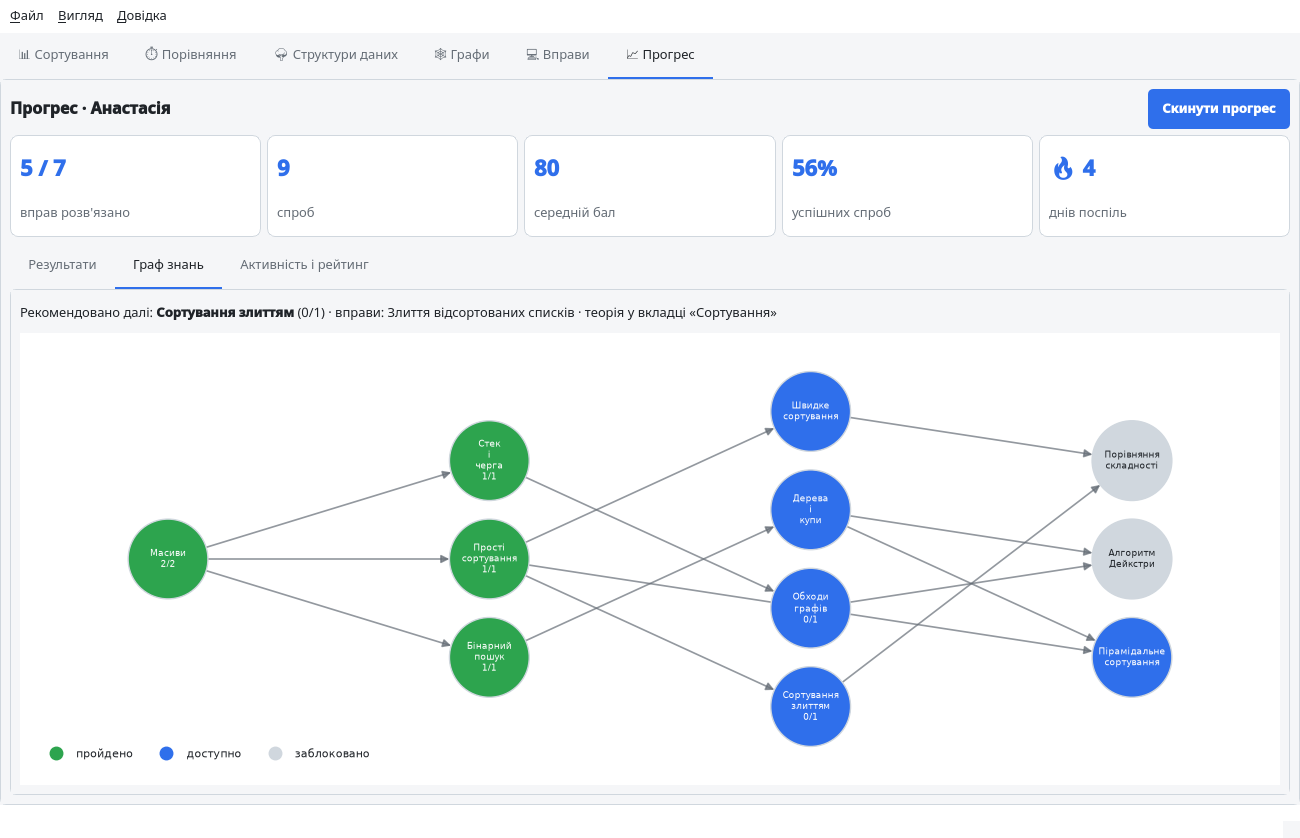
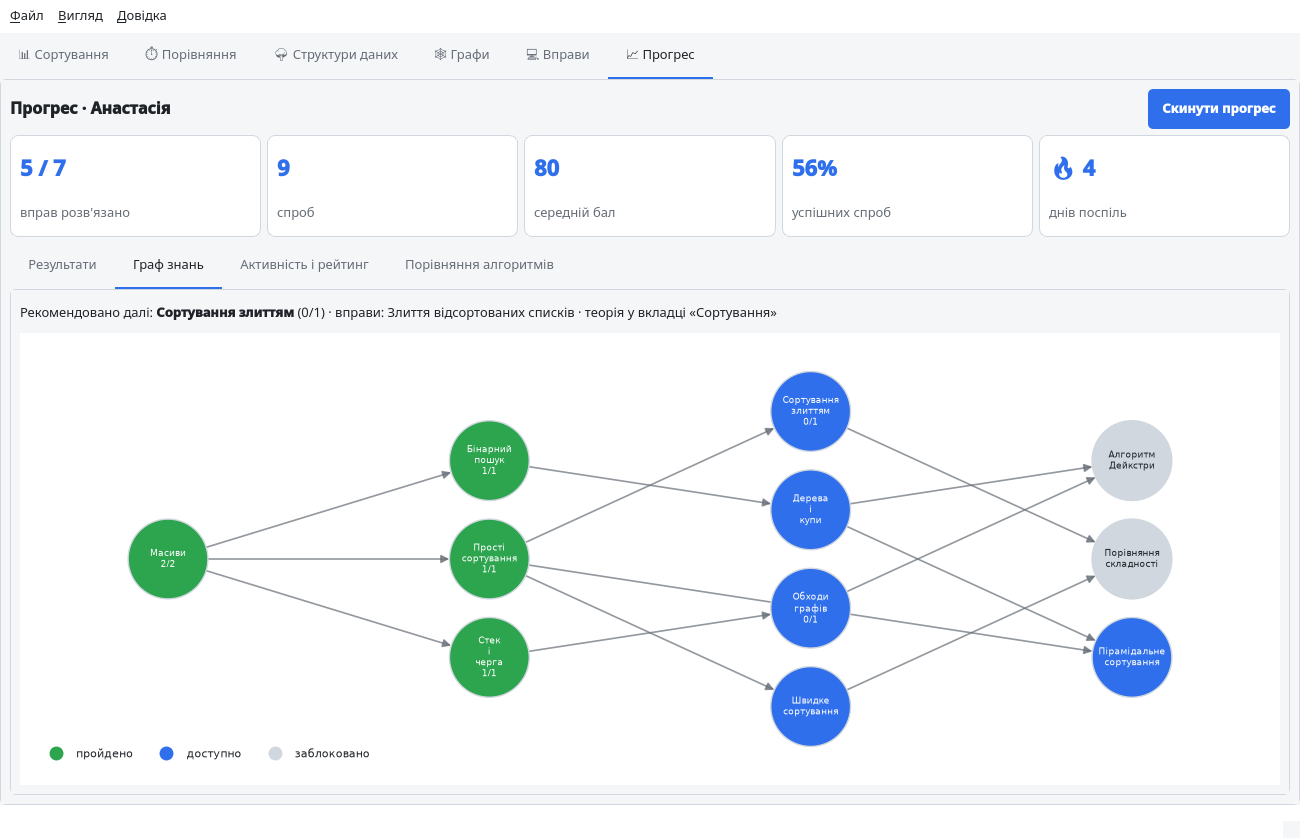
docs: describe benchmark history in README, update screenshots

diff --git a/README.md b/README.md
@@ -33,7 +33,7 @@ the last tab and the current student are remembered between sessions.
 | 🌳 **Data structures** | Binary search tree (search path highlighting, traversals, height), min/max heap (tree + array view), hash table (buckets, collisions, resizing, load factor), stack, queue, singly linked list. Insert / delete / find / random fill. |
 | 🕸 **Graphs** | Build a graph with the mouse (click to add a vertex, click two vertices to connect them, drag to move) or with the form; weighted and directed graphs. Generate random graphs (Erdős–Rényi, tree, grid, complete) and arrange them with `networkx` layouts (spring, circular, shell, Kamada–Kawai, spectral). Animated **BFS**, **DFS** and **Dijkstra** with a levels / order / distances table and shortest path highlighting; graph metrics (connectivity, components, diameter, density). |
 | 💻 **Exercises** | 7 tasks from easy to hard with hints. Code editor with Python syntax highlighting and auto-indent. Solutions run in a separate process with a time limit, so an infinite loop never freezes the app. Results table with expected / actual / time for every test. |
-| 📈 **Progress** | Statistics cards (solved exercises, attempts, average score, success rate, day streak). **Results:** score charts and achievements. **Knowledge graph:** course topics with prerequisites, coloured as mastered / available / locked, and a recommendation of what to study next. **Activity and leaderboard:** attempts over the last 14 days and a ranking of all students. |
+| 📈 **Progress** | Statistics cards (solved exercises, attempts, average score, success rate, day streak). **Results:** score charts and achievements. **Knowledge graph:** course topics with prerequisites, coloured as mastered / available / locked, and a recommendation of what to study next. **Activity and leaderboard:** attempts over the last 14 days and a ranking of all students. **Algorithm comparison:** the student's latest saved benchmark from the database, average time of every algorithm at the largest *n*. |
 
 **Students.** *File → Student…* (`Ctrl+U`) creates, selects and deletes student profiles;
 every student has their own progress. The window title shows the current student.
@@ -45,8 +45,10 @@ every student has their own progress. The window title shows the current student
 | ![Sorting](screenshots/sorting.png) | ![Data structures](screenshots/data_structures.png) |
 | **Exercises** | **Progress** |
 | ![Exercises](screenshots/exercises.png) | ![Progress](screenshots/dashboard.png) |
-| **Activity and leaderboard** | **Students** |
-| ![Activity](screenshots/activity.png) | ![Students](screenshots/students.png) |
+| **Activity and leaderboard** | **Saved benchmark results** |
+| ![Activity](screenshots/activity.png) | ![Saved benchmark results](screenshots/benchmark_history.png) |
+| **Students** | |
+| ![Students](screenshots/students.png) | |
 
 ### Non-blocking data structures
 
@@ -155,7 +157,7 @@ PyCharm picks up `requirements.txt` automatically and offers to install the depe
 │       ├── structure_controllers.py # one controller per data structure
 │       ├── panels/                  # one panel per tab
 │       └── widgets/                 # canvases, playback bar, code editor
-└── tests/                           # 589 tests, ~90% coverage
+└── tests/                           # 594 tests, ~90% coverage
 ```
 
 ## OOP design
@@ -189,7 +191,7 @@ PyCharm picks up `requirements.txt` automatically and offers to install the depe
 |------|------------------|-------------------|
 | Core | Exercises, progress tracker, console entry point, step recording for sorting, numpy benchmark and complexity estimation | `Algorithm` / `SortingAlgorithm` / `DataStructure` base classes, the 5 sorting algorithms, `GraphAlgorithm`, BFS / DFS / Dijkstra, code exercises, sandbox, achievements, knowledge graph |
 | Data structures | BST, binary heap, hash table, graph | Linked list, dynamic array, stack, queue, lock-free stack and queue, SPSC ring buffer, networkx adapter, layouts and generators |
-| Database | SQLAlchemy models, repositories, JSON → SQLite migration | Student profiles UI, leaderboard |
+| Database | SQLAlchemy models, repositories, JSON → SQLite migration | Student profiles UI, leaderboard, benchmark history on the dashboard |
 | GUI | Main window, themes, base canvas, sorting and comparison tabs | Data structures, graphs, exercises and progress tabs |
 | Quality | Tests for the core, database and benchmark; retrospective on PyQt5, SQLAlchemy, numpy | Shared fixtures, networkx cross-checks, GUI tests; retrospective on matplotlib, networkx, pytest; README |
 
